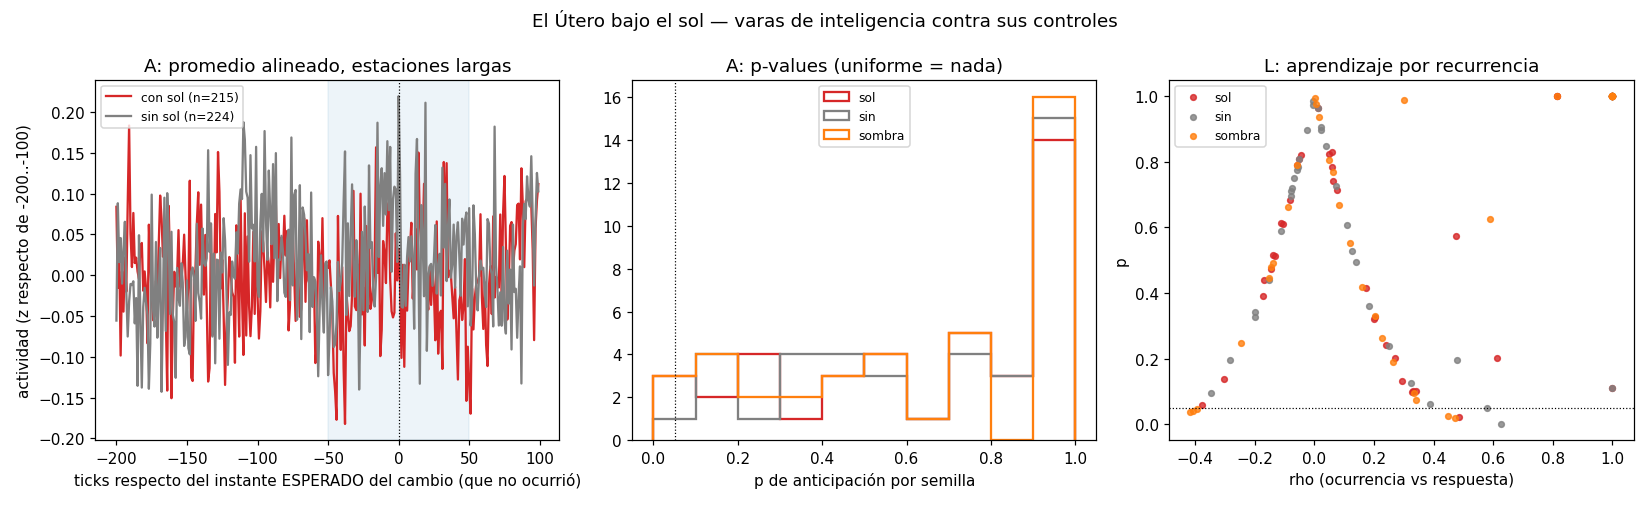
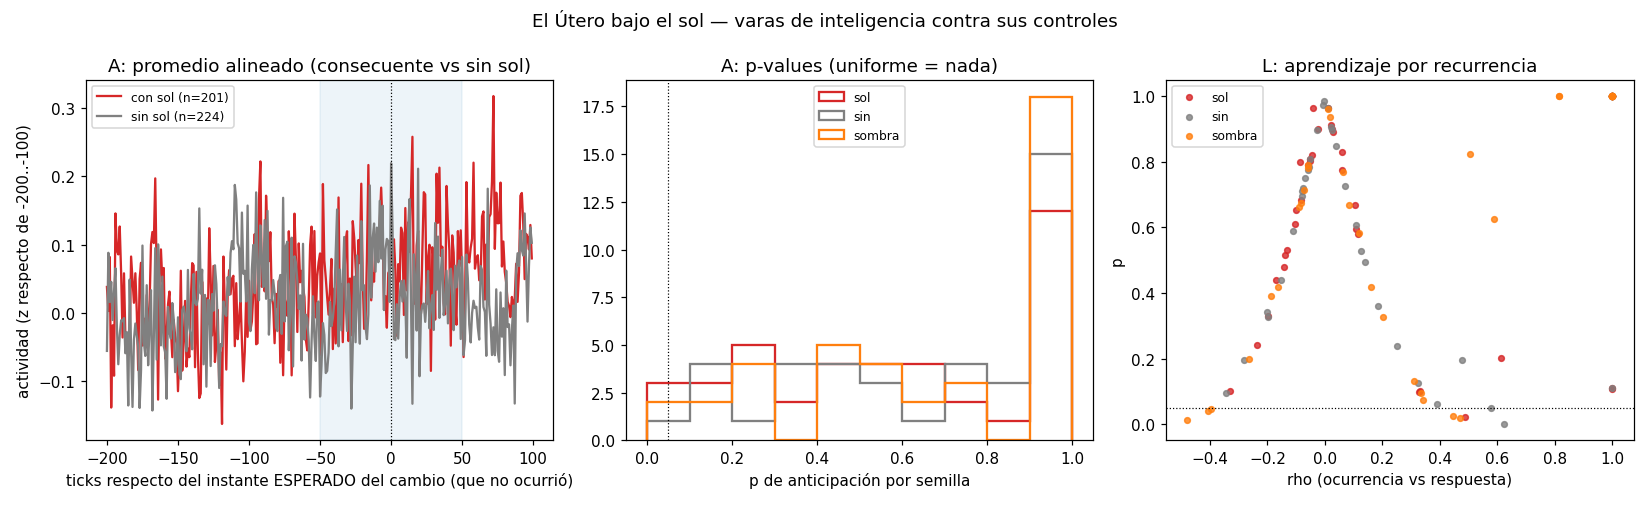
feat(utero): consequential sun -- rule fired VESTIGIO on anticipation at the minimum threshold (3/40 vs shadow 1; binomial p 0.32): not believed until replicated; Sol(orden='permutado') + replication experiment

diff --git a/experiments/utero/exp_utero_sol_replica.py b/experiments/utero/exp_utero_sol_replica.py
@@ -1,0 +1,150 @@
+"""
+Réplica del vestigio de anticipación (docs/PLAN_INTELIGENCIA.md, control
+obligatorio antes de creer).
+
+Corrida 2 del programa del sol (`exp_utero_sol.py`, brazo CONSECUENTE:
+`sol_sonda=True`) disparó la regla pre-registrada: anticipación positiva en
+3/40 semillas (0, 1, 12) contra 1 en la sombra y 0 sin sol. Está en el umbral
+mínimo (≥ 3) y la p binomial contra la tasa nominal es 0.32: compatible con
+azar. El plan exige, antes de creerlo: (a) otro sembrado del sol, (b) el orden
+de estaciones permutado.
+
+BRAZOS (mismo sustrato v6 + sol_sonda; 40 semillas; 20000 ticks):
+  sol1        sol con seed 1 (otras duraciones, mismo orden A→B→C)
+  sol2        sol con seed 2
+  permutado   sol seed 0 con orden PERMUTADO (mismas duraciones que la corrida
+              2; sucesor al azar): quita la regularidad de orden y deja todo lo
+              demás igual. Si la anticipación viniera de aprender el orden,
+              aquí debe desaparecer.
+  sin         sin sol, evaluado con el calendario de sol1
+  sombra      sombra de sol1
+PREDICCIONES (antes de mirar):
+  P1 Si el vestigio es real, sol1 y sol2 dan ≥ 3/40 positivas cada uno y ≥ 2×
+     el máximo de los controles; y las positivas de la corrida 2 (0, 1, 12) no
+     tienen por qué repetirse (otro calendario), pero el CONTEO sí.
+  P2 permutado da un conteo al nivel de los controles.
+  P3 Si sol1 y sol2 quedan al nivel de los controles, el vestigio de la corrida
+     2 fue un falso positivo del umbral (esperado 2/40 al 5%).
+VEREDICTO: REPLICA si P1 y P2; FALSO POSITIVO si P3; AMBIGUO en otro caso.
+Además se reporta la corrida 2 acumulada: conteo total de positivas en 120
+semillas-sol (3 soles) contra la tasa nominal (esperado 6), p binomial.
+
+    PYTHONPATH=src python experiments/utero/exp_utero_sol_replica.py
+"""
+
+from __future__ import annotations
+
+import math
+import os
+import sys
+from concurrent.futures import ProcessPoolExecutor
+from pathlib import Path
+
+import numpy as np
+
+HERE = Path(__file__).resolve().parent
+sys.path.insert(0, str(HERE.parents[1] / "src"))
+
+from zeta_life.utero.inteligencia import anticipacion, aprendizaje, correr_series  # noqa: E402
+from zeta_life.utero.sol import Sol  # noqa: E402
+
+N0, MAX_N = 16, 256
+TICKS = 20000
+SEEDS = list(range(40))
+FLAGS = dict(memoria=True, invasion="asentada", eq_window=100, sol_sonda=True)
+ALPHA, MIN_SEEDS, RATIO = 0.05, 3, 2.0
+PREVIO = {"conteo": 3, "n": 40, "semillas": [0, 1, 12]}
+WORKERS = max(1, min(10, (os.cpu_count() or 4) // 2))
+RESULTS = HERE.parents[1] / "results"
+NAME = "utero_sol_replica"
+
+
+def soles() -> dict:
+    return {"sol1": Sol(seed=1, ticks=TICKS), "sol2": Sol(seed=2, ticks=TICKS),
+            "permutado": Sol(seed=0, ticks=TICKS, orden="permutado")}
+
+
+def job(seed: int) -> tuple:
+    S = soles()
+    out = {}
+    series = {}
+    for arm, sol in S.items():
+        series[arm] = correr_series(seed, FLAGS, sol, TICKS, n0=N0, max_n=MAX_N)
+    series["sin"] = correr_series(seed, FLAGS, None, TICKS, n0=N0, max_n=MAX_N)
+    series["sombra"] = correr_series(seed, FLAGS, S["sol1"], TICKS,
+                                     shadow=list(series["sol1"]["muertes"].astype(int)),
+                                     n0=N0, max_n=MAX_N)
+    cal = {"sol1": S["sol1"], "sol2": S["sol2"], "permutado": S["permutado"],
+           "sin": S["sol1"], "sombra": S["sol1"]}
+    for arm, ser in series.items():
+        out[("A", arm)] = anticipacion(ser["actividad"], cal[arm], rng_seed=seed)
+        out[("L", arm)] = aprendizaje(ser["actividad"], cal[arm], rng_seed=seed)
+        out[("vivas", arm)] = float(np.median(ser["vivas"][6000:]))
+    return seed, out
+
+
+def binom_p(k: int, n: int, p0: float) -> float:
+    return float(sum(math.comb(n, j) * p0 ** j * (1 - p0) ** (n - j) for j in range(k, n + 1)))
+
+
+def main() -> None:
+    lines: list[str] = []
+
+    def out(s: str = "") -> None:
+        print(s, flush=True)
+        lines.append(s)
+
+    arms = ("sol1", "sol2", "permutado", "sin", "sombra")
+    out("=" * 80)
+    out("REPLICA DEL VESTIGIO DE ANTICIPACION (sol consecuente): otros soles y orden permutado")
+    out("=" * 80)
+    out(f"flags {FLAGS}; 40 semillas; {TICKS} ticks; previo: {PREVIO}; workers={WORKERS}")
+    out("predicciones y veredicto en el docstring, escritos antes de correr")
+    out("")
+    res: dict = {}
+    with ProcessPoolExecutor(max_workers=WORKERS) as ex:
+        for i, (seed, r) in enumerate(ex.map(job, SEEDS), 1):
+            res[seed] = r
+            if i % 10 == 0:
+                print(f"  ... {i}/40 semillas", flush=True)
+
+    def conteo(vara, arm, signo):
+        key = "estadistico" if vara == "A" else "rho"
+        return [s for s in SEEDS if not np.isnan(res[s][(vara, arm)]["p"])
+                and res[s][(vara, arm)]["p"] < ALPHA and (res[s][(vara, arm)][key] > 0 or not signo)]
+
+    for vara, signo, titulo in (("A", True, "ANTICIPACION"), ("L", False, "APRENDIZAJE POR RECURRENCIA")):
+        out("-" * 80)
+        out(f"{vara}. {titulo}: positivas por brazo (p<0.05" + (", stat>0" if signo else "") + ")")
+        C = {arm: conteo(vara, arm, signo) for arm in arms}
+        for arm in arms:
+            n_eval = sum(1 for s in SEEDS if not np.isnan(res[s][(vara, arm)]["p"]))
+            out(f"  {arm:<10} {len(C[arm]):>2}/{n_eval}  {C[arm]}   p binomial vs 0.05: "
+                f"{binom_p(len(C[arm]), max(n_eval, 1), ALPHA):.3f}")
+        if vara == "A":
+            CA = C
+        out("")
+    out("  vivas mediana (maduro) por brazo: " + ", ".join(
+        f"{arm} {np.median([res[s][('vivas', arm)] for s in SEEDS]):.0f}" for arm in arms))
+
+    out("=" * 80)
+    out("VEREDICTO (regla escrita antes de correr)")
+    ctrl = max(len(CA["sin"]), len(CA["sombra"]))
+    ok1 = len(CA["sol1"]) >= MIN_SEEDS and len(CA["sol1"]) >= RATIO * max(ctrl, 1)
+    ok2 = len(CA["sol2"]) >= MIN_SEEDS and len(CA["sol2"]) >= RATIO * max(ctrl, 1)
+    perm_bajo = len(CA["permutado"]) <= max(ctrl, 2)
+    total = PREVIO["conteo"] + len(CA["sol1"]) + len(CA["sol2"])
+    p_total = binom_p(total, 3 * 40, ALPHA)
+    if ok1 and ok2 and perm_bajo:
+        v = "REPLICA"
+    elif not ok1 and not ok2:
+        v = "FALSO POSITIVO"
+    else:
+        v = "AMBIGUO"
+    out(f"=> {v}: sol1 {len(CA['sol1'])}, sol2 {len(CA['sol2'])}, permutado {len(CA['permutado'])}, "
+        f"controles max {ctrl}; acumulado 3 soles {total}/120 (esperado 6 al azar), p binomial {p_total:.3f}")
+    (RESULTS / f"{NAME}_run.txt").write_text("\n".join(lines), encoding="utf-8")
+
+
+if __name__ == "__main__":
+    main()

diff --git a/src/zeta_life/utero/sol.py b/src/zeta_life/utero/sol.py
@@ -8,6 +8,8 @@ materia de su borde.
 
 Estructura, determinista y sembrada aparte (el observador la conoce, el tejido no):
 - ESTACIONES en orden fijo y cíclico A → B → C → A…: la regularidad aprendible.
+  (`orden="permutado"`: sucesor al azar sin repetir el régimen actual — el
+  control que quita la regularidad de orden y deja todo lo demás igual.)
 - DURACIONES tomadas de un mapa logístico (r=3.9) escalado a [dur_min, dur_max]:
   típicas pero impredecibles desde la señal. En una estación LARGA el instante
   típico de cambio pasa sin que el sol cambie: ahí se mide la anticipación.
@@ -34,16 +36,24 @@ class Sol:
     dur_min: int = 300
     dur_max: int = 900
     regimenes: tuple = REGIMENES
+    orden: str = "ciclico"          # "ciclico" (A→B→C, aprendible) | "permutado" (control)
     estaciones: list = field(default_factory=list, init=False)   # (nombre, inicio, fin)
     _s: np.ndarray = field(default=None, init=False, repr=False)
 
     def __post_init__(self) -> None:
         x = 0.1 + 0.8 * ((self.seed * 0.6180339887498949) % 1.0)   # semilla del mapa logístico
+        rng = np.random.default_rng(10_000 + self.seed)             # sólo para orden="permutado"
         t, k = 0, 0
+        prev = None
         while t < self.ticks:
             x = 3.9 * x * (1.0 - x)                                 # mapa logístico, caótico
             dur = int(self.dur_min + x * (self.dur_max - self.dur_min))
-            nombre = self.regimenes[k % len(self.regimenes)][0]
+            if self.orden == "ciclico":
+                nombre = self.regimenes[k % len(self.regimenes)][0]
+            else:                                                   # permutado: sin sucesor fijo
+                opciones = [r[0] for r in self.regimenes if r[0] != prev]
+                nombre = str(rng.choice(opciones))
+            prev = nombre
             self.estaciones.append((nombre, t, min(t + dur, self.ticks)))
             t += dur
             k += 1

diff --git a/tests/test_utero_sol.py b/tests/test_utero_sol.py
@@ -151,3 +151,15 @@ def test_sol_acople_makes_the_surface_follow_the_sun():
     u.step()
     assert abs(u.v[0] - sol(0)) < 1e-12 and abs(u.v[2] - sol(0)) < 1e-12   # superficie = sol
     assert abs(u.v[1] - 0.6) < 1e-12                                        # interior: su regla
+
+
+def test_sol_permutado_removes_the_fixed_order_but_keeps_everything_else():
+    a = Sol(seed=0, ticks=20000)
+    b = Sol(seed=0, ticks=20000, orden="permutado")
+    assert [i for _, i, _ in a.estaciones] == [i for _, i, _ in b.estaciones]   # mismas duraciones
+    na = [n for n, _, _ in a.estaciones]
+    nb = [n for n, _, _ in b.estaciones]
+    assert na != nb
+    assert all(x != y for x, y in zip(nb, nb[1:]))                              # nunca repite
+    assert (b.serie >= 0).all() and (b.serie < 1).all()
+    np.testing.assert_array_equal(b.serie, Sol(seed=0, ticks=20000, orden="permutado").serie)

diff --git a/docs/EL_UTERO.md b/docs/EL_UTERO.md
@@ -689,6 +689,33 @@ sustrato distinto. Decisión abierta.
   variables esenciales). Siguiente paso, ya en el plan: que el clima cuente
   para la sonda. (`results/utero_sol_run.txt`, `.png`)
 
+- **El sol consecuente (`sol_sonda`): la regla pre-registrada disparó
+  "VESTIGIO" por anticipación en el umbral mínimo; NO se cree hasta replicar
+  (2026-09-26).** `sol_sonda=True`: la sonda de ceguera se referencia a la
+  materia actual del vacío (sol(t), sol(t)+h) en vez de (0, h): "una física que
+  no distingue el mundo de hoy de otro es ciega" — principio 3 con una
+  referencia menos arbitraria; byte-idéntico sin sol. Misma corrida de 40
+  semillas con cuatro brazos (visible, consecuente, sin sol, sombra del
+  consecuente). **Resultados:** R ok en ambos (vivas 248/246 vs 246; ambos
+  soles destraban 18 semillas con novedad madura contra 5; muertes/tick en
+  maduro **0.000**: el tejido maduro está congelado bajo el sol). **A:
+  visible 2/40 (0, 1), consecuente 3/40 (0, 1, 12), sin sol 0, sombra 1** →
+  la regla (≥3 y ≥2× control) disparó para el consecuente; p binomial contra
+  la tasa nominal 0.32 (esperado 2/40 al 5%). **L:** visible 1, consecuente 1,
+  sin sol 2, sombra 5 — nada. Un diagnóstico aparte (4 semillas) mostró que
+  la actividad es PLANA alrededor de los inicios de estación en todos los
+  brazos y que la superficie no sigue al sol (`v_borde` constante): el tejido
+  apenas siente el clima, con o sin sonda climática. **Lectura honesta:** el
+  umbral de 3/40 que pre-registré es débil (la tasa nominal ya da 2); las
+  semillas 0 y 1 son positivas también en el brazo visible; y un tejido que no
+  siente el clima no puede anticiparlo. Lo más probable es un falso positivo
+  del umbral. Por protocolo, antes de creerlo: réplica con otros dos
+  sembrados del sol y con el orden de estaciones permutado
+  (`exp_utero_sol_replica.py`, `Sol(orden="permutado")`), y en paralelo el sol
+  que CALIENTA (`sol_acople=κ`: la superficie recibe materia del sol, v ←
+  (1−κ)v' + κ·sol), con el que el diagnóstico sí mostró contacto (corr borde–
+  sol 0.89; muertes ×3–16 al inicio de estación). (`results/utero_sol_run.txt`)
+
 - **Control ruido-vs-función (2026-07-09): FUNCIÓN, 2/3 — con matices.**
   `exp_utero_ruido_vs_funcion.py`, vara definida ANTES de mirar. Línea base
   espuma: intervalo de reescritura ~3.2 ticks. Sobre 6.198 genomas tardíos
